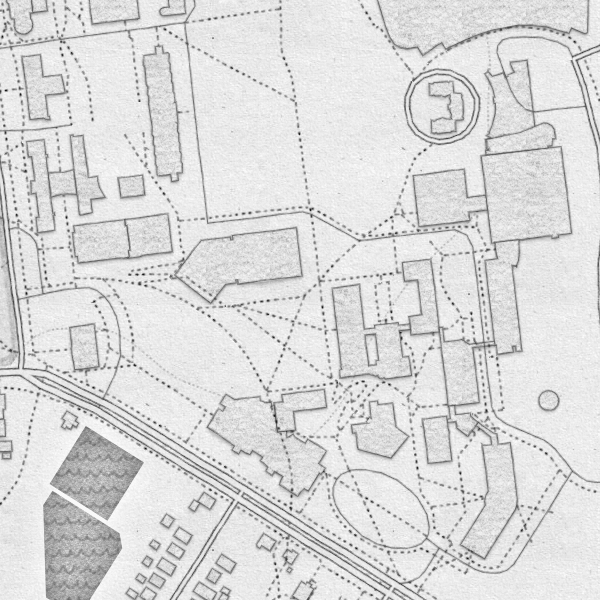
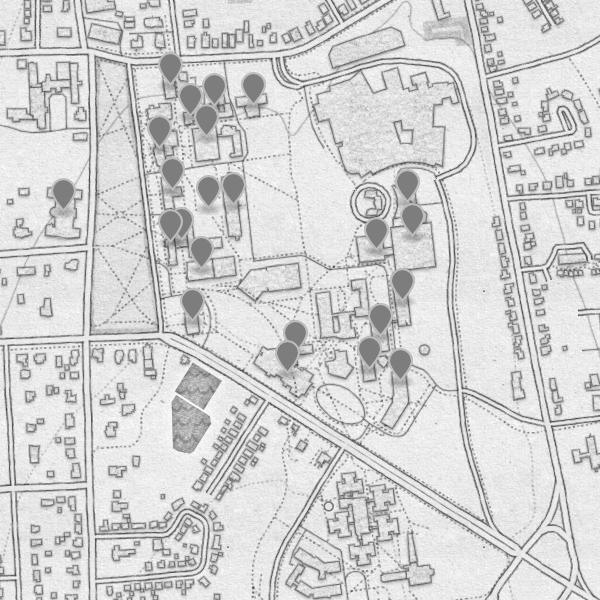
Added updateable map.

diff --git a/map.py b/map.py
@@ -7,10 +7,57 @@
 import mapbox as mb
 
 service = mb.Static()
+ds = mb.Datasets()
+dsid = 'cj0zcvgfj03eq32sd22ojxt9f'
+buildings = []
+
+building_ids = {
+    'billings' : '09f7bdfbd310df3f188acb4e50ce7d14',
+    'williams' : '0c756ccb40fa20f0164244efc74f26b0',
+    'stafford' : '10c79f8764a71e16fac9ee2ed3945c94',
+    'davis' : '16e615d9bc43cf35f627d2411079d3fd',
+    'discovery' : '199877b08cc3de4a4ad88ba65f730371',
+    'old mill' : '20ab696c02c2341b735d6883209dead3',
+    'old mill annex' : '21f2116702d35d8e21e706fb3dd6a311',
+    'fleming' : '2e3556350cf72ea054bd354e46899318',
+    'morrill' : '310ee53ca0599174af92743ec579e94d',
+    'stafford greenhouse' : '321c949c44b660700cc7e38117574b5a',
+    'terrill' : '3b5247428424128c026c94c7922e9748',
+    'torrey' : '49699344e48e31625af65afed19bafdf',
+    'dana' : '50275fb6e7bf8ab75427af9e8e00a380',
+    'royal tyler theater' : '56eb9a5c25971d8eba6269e35627238e',
+    'perkins' : '586f12524384b40ad4551ad7087a62d4',
+    'cook' : '5a889d124be37b8fcb5f6bc37742b644',
+    'waterman' : '6edc7477a6e49a24a3aef204f22a766a',
+    'health science research facility' : '6f5e9eb85ae1129a1408d927cc2119d4',
+    # 'hills' : '974274a8548ccb0fdc63387b7075850c',
+    # 'votey' : 'a51925113cd22c47b159cbf1086a1377',
+    # 'given' : 'b27f7aa4a38a402c9b51906d1e9ca328',
+    # 'billings lecture hall' : 'bacc5d6ea8028e76a06c0a24588637b9',
+    # 'jeffords' : 'bd423d46eaa6c13ea75550119bb95f31',
+    # 'rowell' : 'ce59b608ef33234fa4305664ce1bb6be',
+    # 'bailey-howe' : 'd915d02af6efa1b771fe4596e9adcfca',
+    # 'lafayette' : 'da9b2bad978ec71be3d55c9dc932c105',
+    # 'aiken' : 'df70dfd037a92eb9f3832b19836f6bcf',
+    # 'kalkin' : 'e589b0d4663a7d9e1a99130ad7664494',
+    # 'chapel' : 'fada3735d6829c7160d7ed550db647fd',
+    # 'marsh life' : 'fd208298d8bdbc98462d875d6ca97c47'
+    }
 
 def make_map(features = None):
-    response = service.image('mapbox.pencil', lon=-73.196091, lat=44.476947, z=17, features = features)
+    response = service.image('mapbox.pencil', lon=-73.196091, lat=44.476947, z=16, features = features)
     with open('static/images/map.png', 'wb') as output:
         _ = output.write(response.content)
 
+def add_building(building):
+    building_id = building_ids[building.lower()]
+    feature = ds.read_feature(dsid, building_id)
+    buildings.append(feature.json())
+    make_map(buildings)
+
 make_map()
+
+b = "BEARS"
+while b != "":
+  b = input("Which building?\n")
+  add_building(b)
